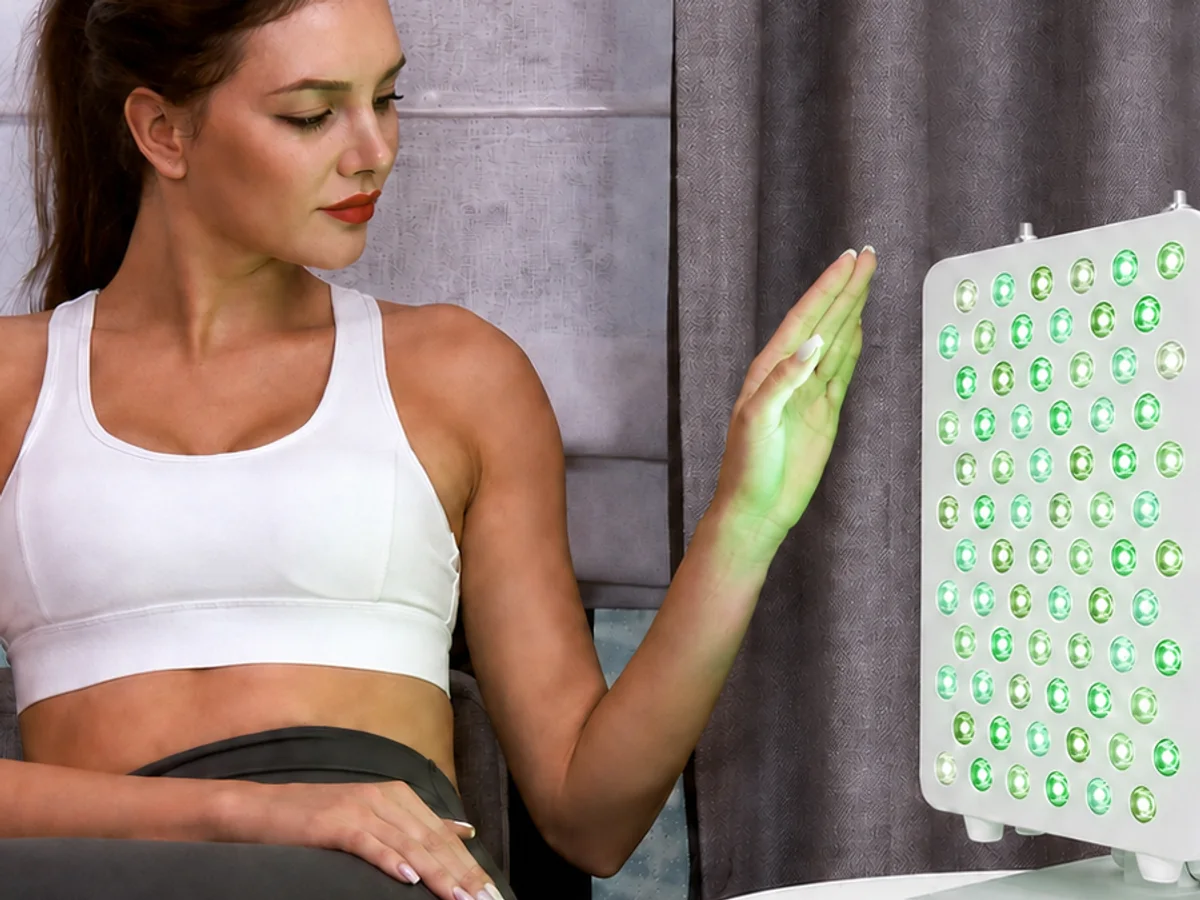
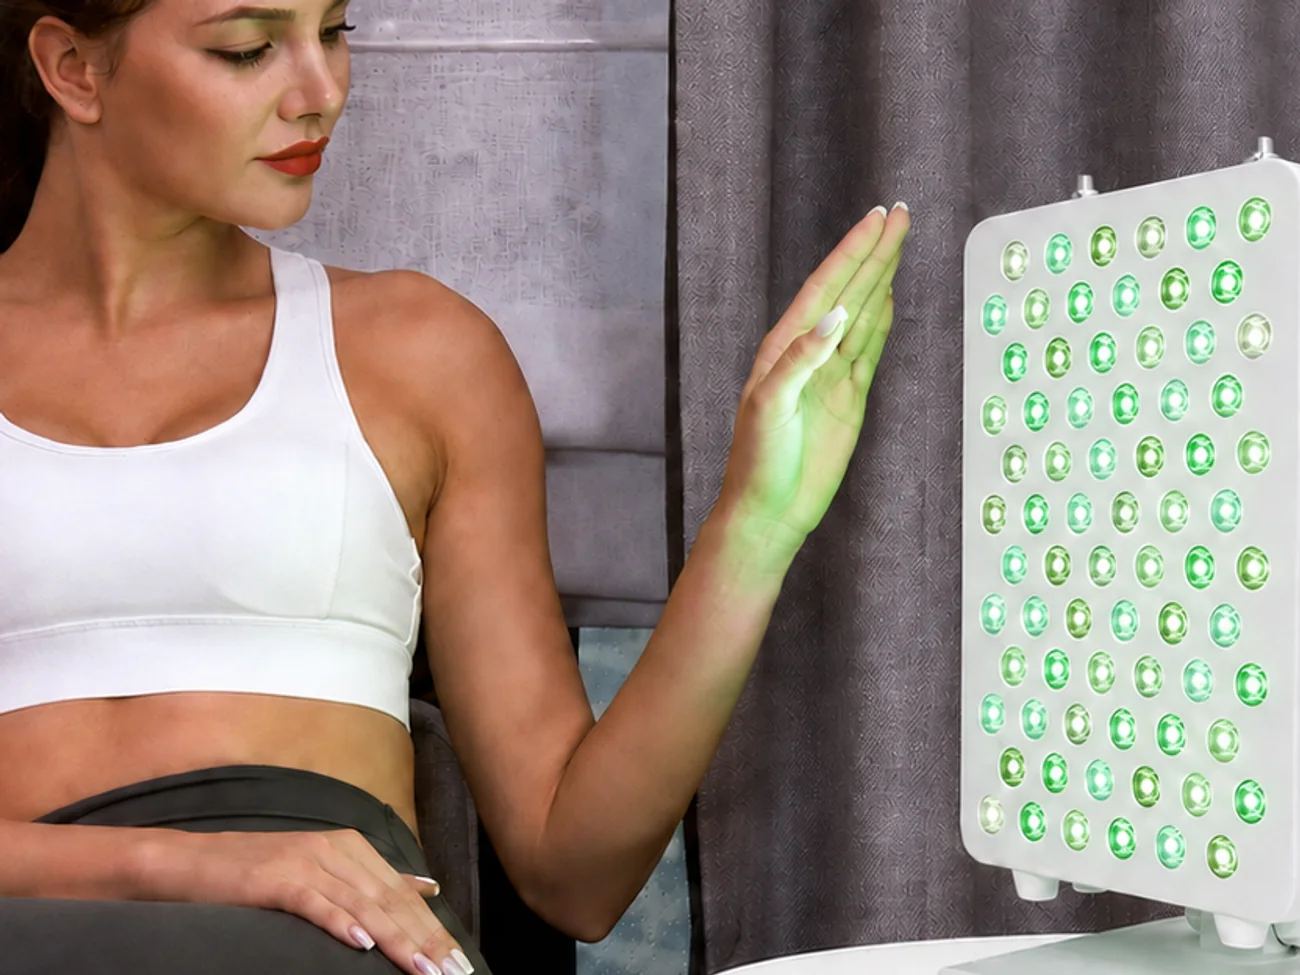
Show the whole LED array in the panel in-use shot; crop further left
Crop window moves from x 215-1115 / y 265-940 to x 290-1122 / y 320-944.

The right edge is the part that mattered. I measured the source rather than
estimating: the green LED array ends at x=1102 and the first glyph of the DEARDOO
lockup begins at x=1127. Twenty-five pixels, and that is the whole budget. The old
edge at 1115 technically contained every LED but left only 13 px of margin, so the
array sat flush against the frame and read as sliced. The new edge at 1122 gives
20 px past the last LED while staying 5 px clear of the first glyph, and the
verification crop of the output's right edge shows full bezel and the panel's own
right border with no control screen in frame.

Left edge moves 215 to 290 as asked, which with the smaller overall window takes
the LED array from about 37% to 40% of image width.

Worth stating plainly, and now written into both the markup and the README: the
right edge cannot move again. Going further to show the whole panel pulls in the
control screen and the lockup with it. The panel body to the right of the LED array
is permanently out of frame — that is the price of using this image at all, and the
only way to enlarge the panel from here is to crop more off the left.

That trade has a limit too. Keeping her face and the full panel both in a 4:3 frame
is already tight; a tighter window starts cutting her at the mouth, which looks
worse than the dead space it removes. I compared those before settling here.
[…]

diff --git a/products/panel.html b/products/panel.html
@@ -92,8 +92,14 @@
              panel-dusk.webp (setting), panel-inuse.webp (room).
              panel-inuse.webp is CROPPED, and the crop is load-bearing. The uncropped
              frame shows a third-party logo lockup reading "DEARDOO" on the panel's
-             control strip at the right edge. The crop cuts that strip while keeping
-             the whole LED face. Do not re-crop wider or swap in the original.
+             control strip. Measured in the source: the green LED array ends at x=1102
+             and the first glyph of that lockup begins at x=1127, so there are only 25
+             px of clearance. The crop's right edge sits at x=1122 — every LED plus a
+             little bezel, and nothing of the lockup.
+             THE RIGHT EDGE CANNOT MOVE. Pushing it further to "show the whole panel"
+             pulls in the control screen and the lockup with it. The panel's right
+             bezel and screen are permanently out of frame; that is the trade for
+             using this image at all. Enlarge by cropping the LEFT only.
              COUNSEL, still open on that image: the panel in it is not the one the
              other two renders show — front-mounted control screen, side vents, stone
              base, oval lenses, against our plain white face and white folding stand —

diff --git a/README.md b/README.md
@@ -195,12 +195,18 @@ Three images only, per the owner's instruction. Sources live in
 ### panel-inuse.webp: the crop is load-bearing
 The uncropped frame shows a **third-party logo lockup reading "DEARDOO"** on the
 panel's control strip at the right edge — a mark plus wordmark, plainly legible at
-magnification. The crop cuts that strip off while keeping the whole LED face, and
-the tighter framing reads better anyway. Re-cropped tighter again on 2026-08-22 to
-enlarge the panel and drop dead space on the left: the window is now x 215-1115,
-y 265-940 of the source. **x cannot go past 1115 — that is where the control strip
-starts. Do not re-crop wider, and do not swap in
-the original.**
+magnification. The crop cuts that strip off while keeping the whole LED face.
+
+Measured in the source: the green LED array ends at **x=1102** and the first glyph of
+the lockup begins at **x=1127** — 25 px of clearance, and that is the entire budget.
+The crop window is now **x 290-1122, y 320-944**, so the right edge sits 20 px past
+the last LED and 5 px short of the first glyph. Every LED is in frame with a little
+bezel around it.
+
+**The right edge cannot move.** Pushing it further to show the whole panel pulls in
+the control screen and the lockup with it, so the panel body right of the LED array
+is permanently out of frame — that is the trade for using this image at all. To make
+the panel larger, crop the LEFT. Do not swap in the original.
 
 Two things the crop does not fix, both raised and both overridden by explicit
 instruction, so they need Emma rather than another pass from me:
